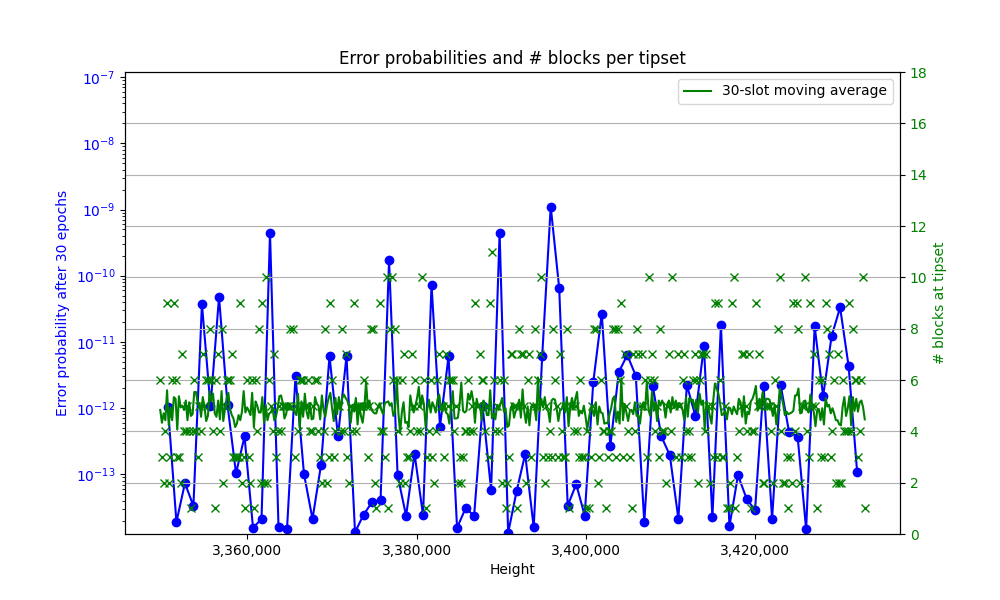
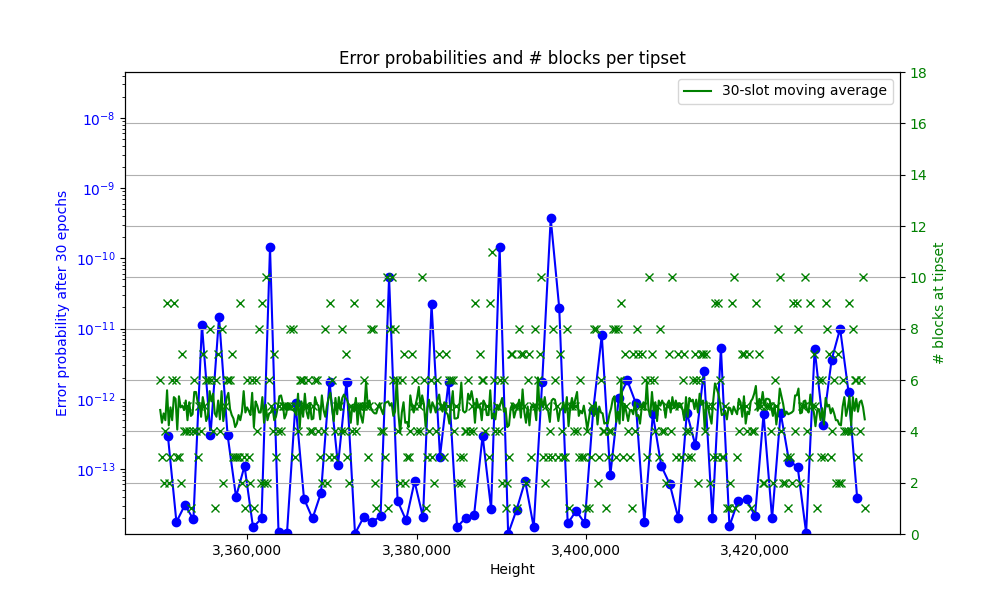
Align notation, fix sum

diff --git a/finality_calc_validator.py b/finality_calc_validator.py
@@ -56,9 +56,9 @@ def finality_calc_validator(chain: list[int], blocks_per_epoch: float, byzantine
         # and walking backwards to the last final tipset
         for i in range(target_epoch, current_epoch - 900, -1):
             sum_expected_adversarial_blocks_i += rate_malicious_blocks
-            sum_chain_blocks_i -= chain[i - 1]
-            # Poisson(k=k, lambda=sum_expected_adversarial_blocks_i, location=sum_chain_blocks_i)
-            pr_L_i = ss.poisson.pmf(k, sum_expected_adversarial_blocks_i, sum_chain_blocks_i)
+            sum_chain_blocks_i += chain[i - 1]
+            # Poisson(k=k, lambda=sum(f*e))
+            pr_L_i = ss.poisson.pmf(k + sum_chain_blocks_i, sum_expected_adversarial_blocks_i)
             # Take Pr(L=k) as the maximum over all i
             pr_L[k] = max(pr_L[k], pr_L_i)
         
@@ -80,8 +80,8 @@ def finality_calc_validator(chain: list[int], blocks_per_epoch: float, byzantine
 
     # Calculate Pr(B=k) for each value of k
     for k in range(0, max_k_B + 1):
-        # Poisson(k=k, lambda=sum_expected_adversarial_blocks, location=0)
-        pr_B[k] = ss.poisson.pmf(k, (current_epoch - target_epoch + 1) * rate_malicious_blocks, 0)
+        # Poisson(k=k, lambda=sum(f*e))
+        pr_B[k] = ss.poisson.pmf(k, (current_epoch - (target_epoch + 1)) * rate_malicious_blocks)
 
         # Break if pr_B[k] becomes negligible
         if k > 1 and pr_B[k] < negligible_threshold and pr_B[k] < pr_B[k-1]:
@@ -94,14 +94,14 @@ def finality_calc_validator(chain: list[int], blocks_per_epoch: float, byzantine
     ####################
 
     # Calculate the probability Pr(H>0)
-    # Poisson (k=0, lambda=rate_honest_blocks, location=0)
+    # Poisson (k=0, lambda=h*e)
     Pr_H_gt_0 = 1 - ss.poisson.pmf(0, rate_honest_blocks, 0)
 
     # Calculate E[Z]
     exp_Z = 0.0
     for k in range(0, (int) (4 * blocks_per_epoch)):  # Range stems from the distribution's moments
-        # Poisson(k=k, lambda=rate_adv_blocks, location=0)
-        pmf = ss.poisson.pmf(k, rate_malicious_blocks, 0)
+        # Poisson(k=k, lambda=f*e)
+        pmf = ss.poisson.pmf(k, rate_malicious_blocks)
         exp_Z += ((rate_honest_blocks + k) / (2 ** k)) * pmf
 
     # Lower bound on the growth rate of the public chain
@@ -114,14 +114,12 @@ def finality_calc_validator(chain: list[int], blocks_per_epoch: float, byzantine
     for k in range(0, max_k_M + 1):
         # Calculate Pr(M_i = k) for each i and find the maximum
         for i in range(max_i_M, 0, -1):
-            lambda_B_i = i * rate_malicious_blocks
-            lambda_Z_i = i * rate_public_chain
-            # Skellam(k=k, mu1=lambda_b_i, mu2=lambda_Z_i)
-            prob_M_i = ss.skellam.pmf(k, lambda_B_i, lambda_Z_i)
+            # Skellam(k=k, mu1=n*e*f, mu2=n*E[Z])
+            prob_M_i = ss.skellam.pmf(k, i * rate_malicious_blocks, i * rate_public_chain)
 
             # Break if prob_M_i becomes negligible
             if prob_M_i < negligible_threshold and prob_M_i < pr_M[k]:
-                break # Note: to be checked, but breaking here didn't change output in simulation
+                break
 
             # Take Pr(M=k) as the maximum over all i
             pr_M[k] = max(pr_M[k], prob_M_i)
